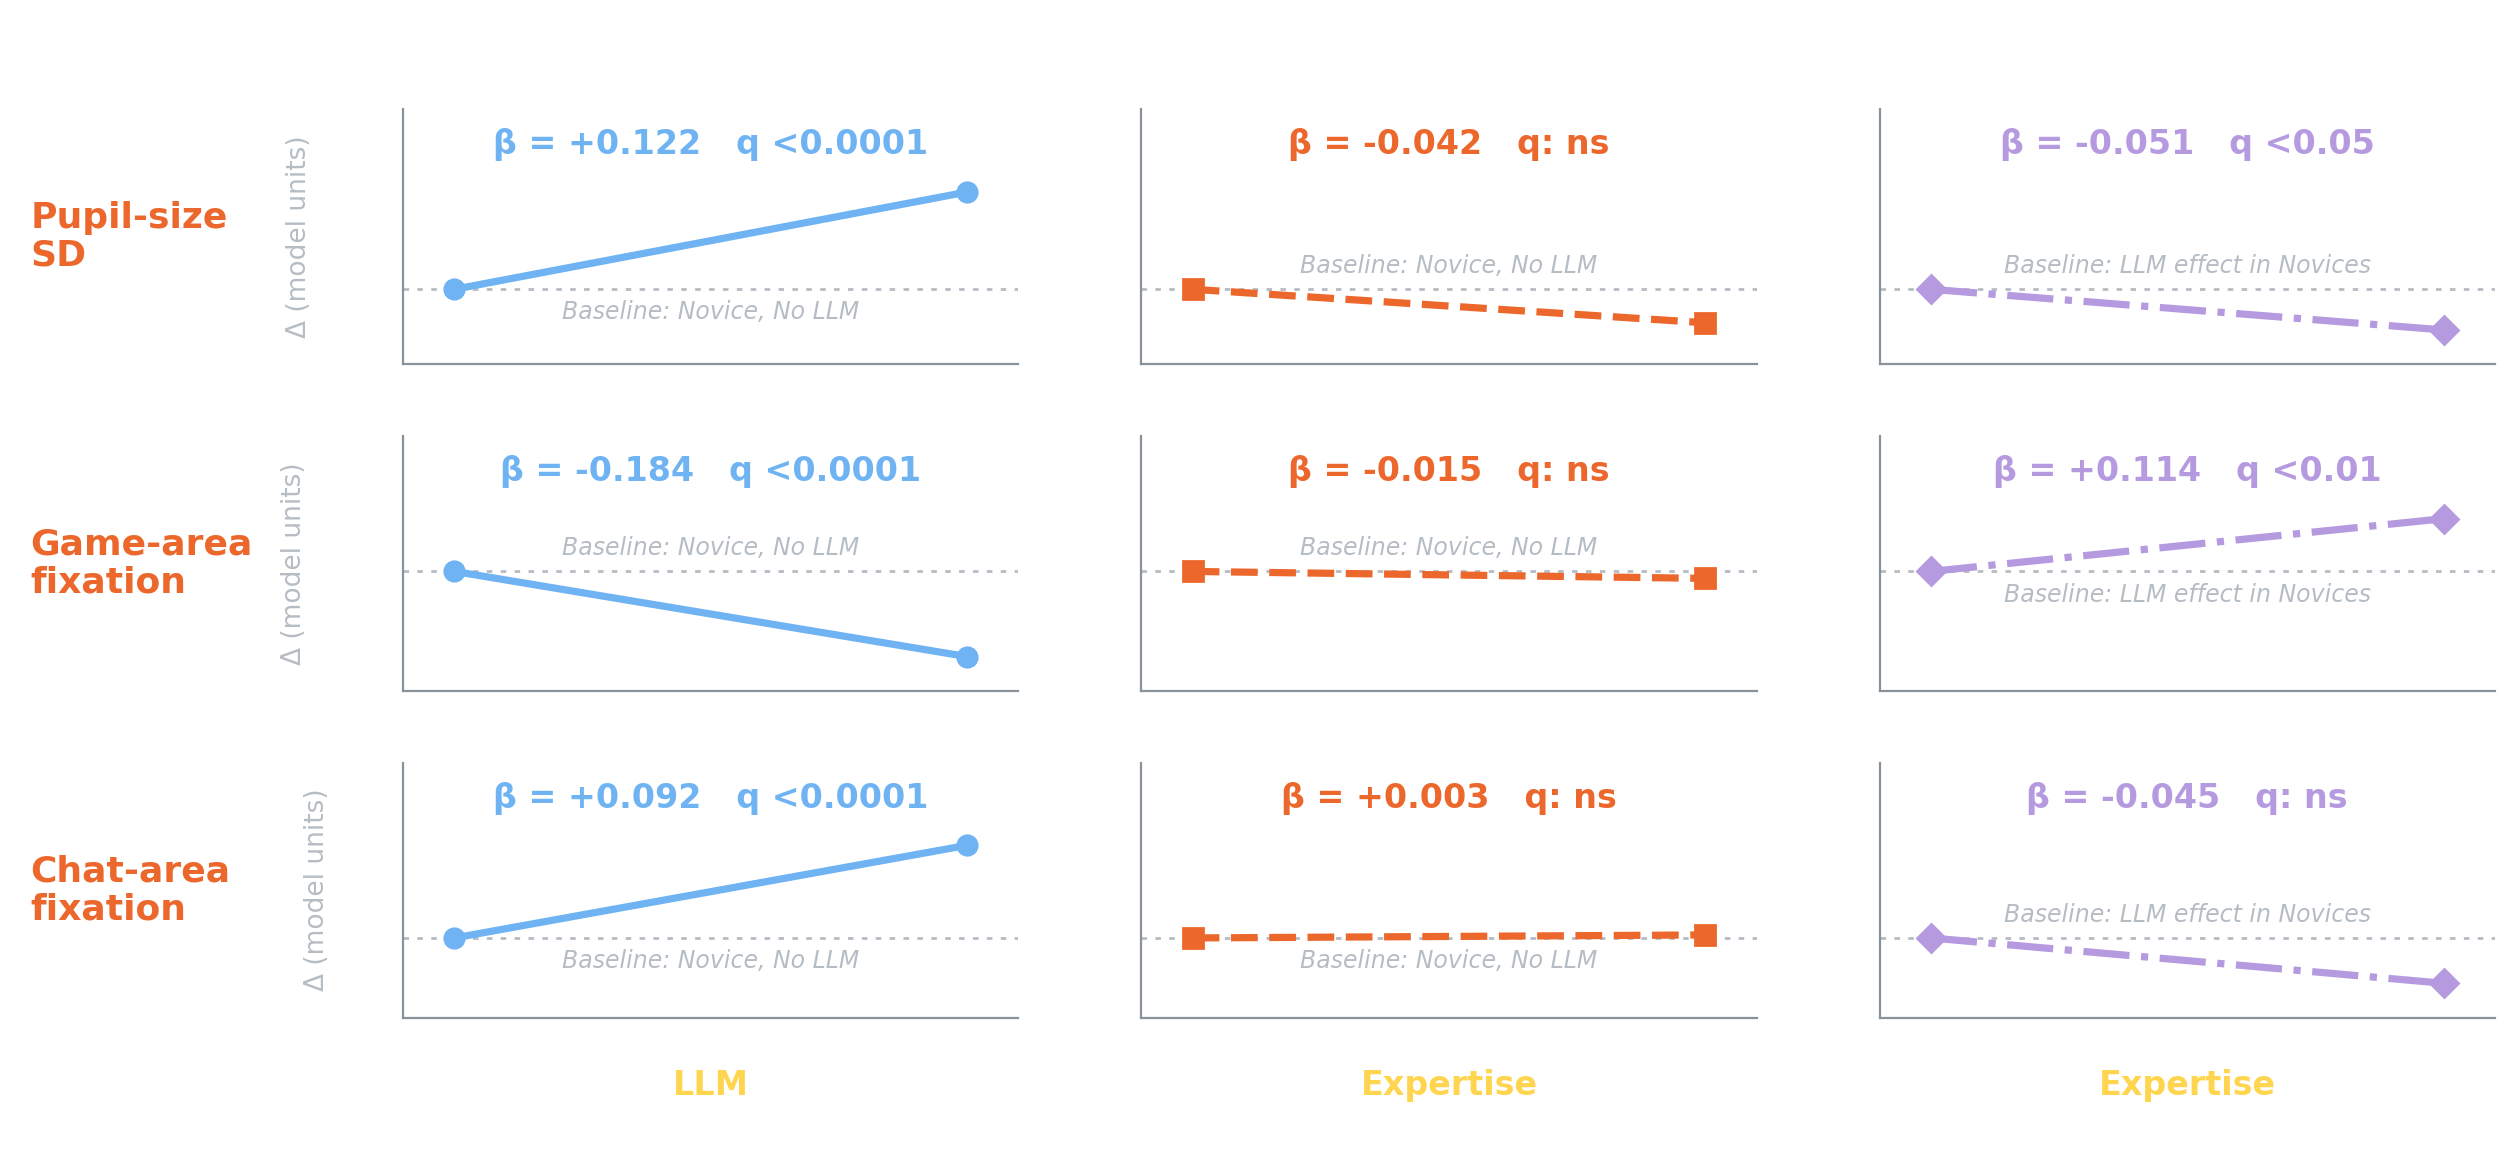
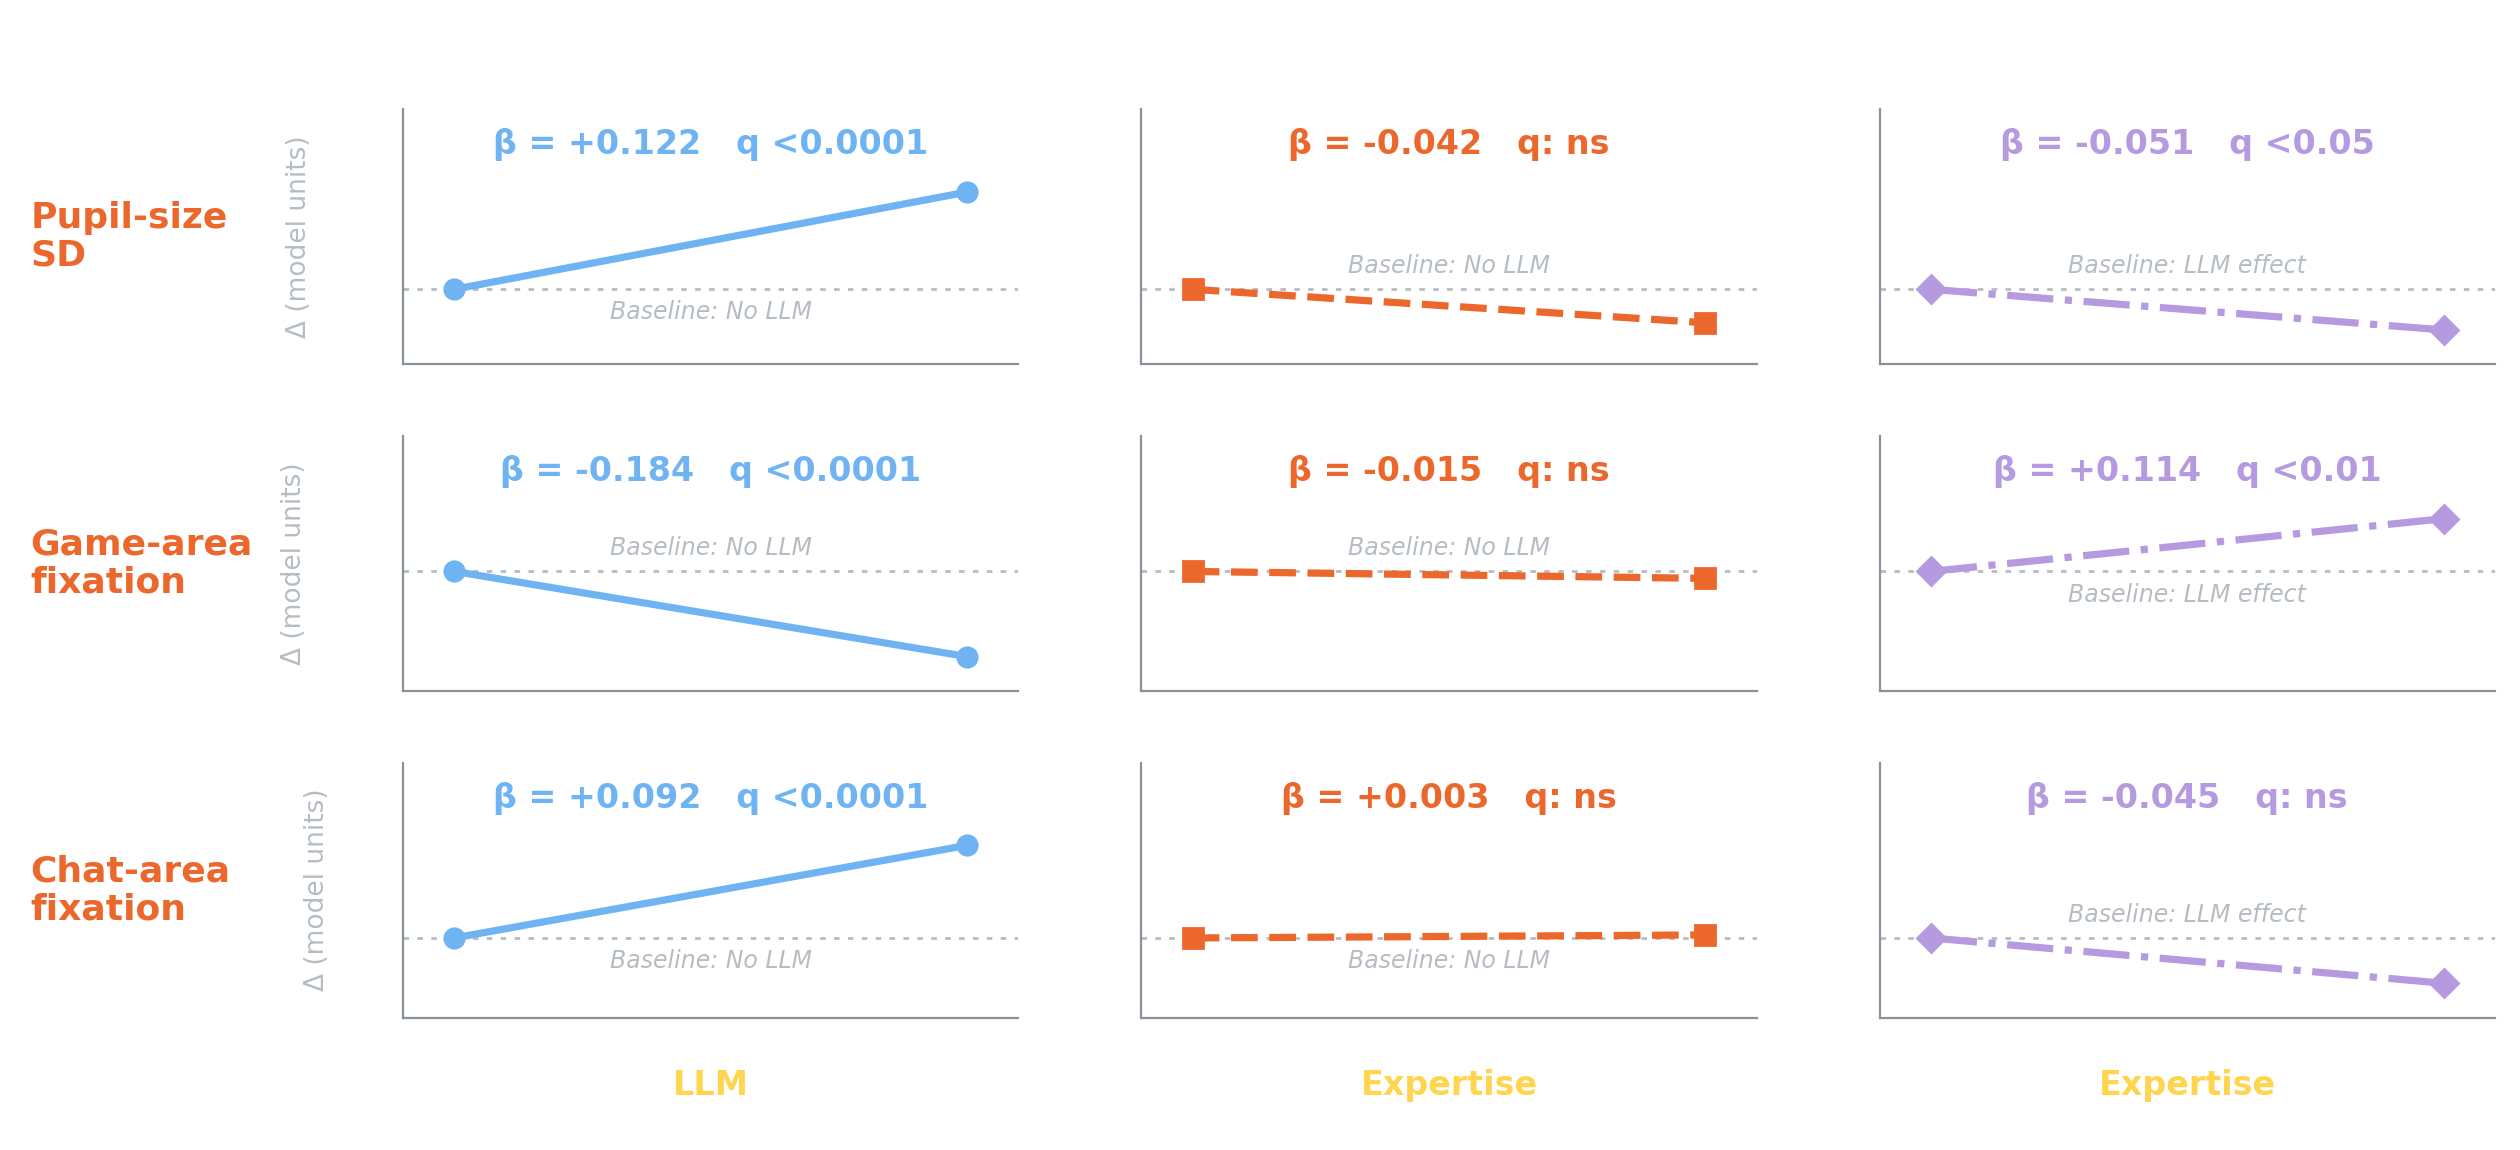
Drop Novice from baseline labels in results grids

diff --git a/outputs/ieee_smc_slopes/reported_effects/make_grid_figures.py b/outputs/ieee_smc_slopes/reported_effects/make_grid_figures.py
@@ -14,6 +14,8 @@ GROUPS={
 }
 # Column titles for the slide grids; the first drops the '(Novices)' qualifier.
 GRID_TITLES=['LLM effect',*TITLES[1:]]
+# Baseline notes without the 'Novice' wording.
+GRID_BASELINES=['Baseline: No LLM','Baseline: No LLM','Baseline: LLM effect']
 INK,MUTED,ACCENT,XACCENT='#FFFFFF','#B5BCC3','#EC672C','#FFD54F'
 
 def draw(name,outcomes):
@@ -33,7 +35,7 @@ def draw(name,outcomes):
                 ax.plot([0,1],[0,beta],color=SLIDE_COLORS[j],lw=2.6,marker=['o','s','D'][j],ms=7,
                         ls=['-','--','-.'][j])
                 ax.axhline(0,color=MUTED,lw=1,ls=(0,(2,3)),zorder=0)
-                ax.annotate(BASELINES[j],(.5,0),xytext=(0,-4 if beta>=0 else 4),
+                ax.annotate(GRID_BASELINES[j],(.5,0),xytext=(0,-4 if beta>=0 else 4),
                             textcoords='offset points',ha='center',
                             va='top' if beta>=0 else 'bottom',fontsize=8.5,
                             color=MUTED,style='italic')
